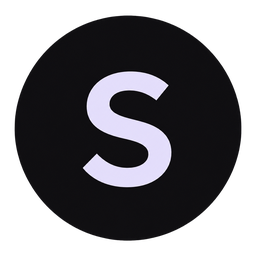
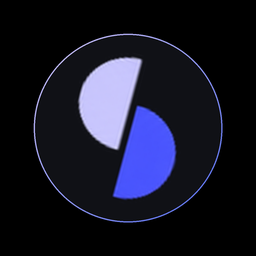
Apply final SILO identity

diff --git a/index.html b/index.html
@@ -1,5 +1,5 @@
 <!doctype html>
-<html lang="ko"><head><meta charset="UTF-8"><meta name="viewport" content="width=device-width,initial-scale=1"><title>SILO · Story workspace</title><link rel="stylesheet" href="style.css?v=20261101-silo2"></head>
+<html lang="ko"><head><meta charset="UTF-8"><meta name="viewport" content="width=device-width,initial-scale=1"><title>SILO · Story workspace</title><link rel="stylesheet" href="style.css?v=20261101-silo3"></head>
 <body><header><a class="brand" href="#"><strong>SILO</strong><small>CREATIVE WORKSPACE</small></a><div class="project"><span class="dot"></span><input id="projectTitle" maxlength="120" aria-label="프로젝트 제목"><select id="projectPicker" aria-label="저장된 프로젝트"></select></div><div class="top-actions"><span id="saved">자동 저장</span><button id="newProject">＋ 새 프로젝트</button><button id="deleteProject">프로젝트 삭제</button></div></header>
 <nav class="steps" role="tablist" aria-label="작업 공간"><button role="tab" aria-selected="true" data-tab="story">스토리</button><button role="tab" aria-selected="false" data-tab="assets">어셋</button><button role="tab" aria-selected="false" data-tab="shots">샷보드</button><button role="tab" aria-selected="false" data-tab="timeline">타임라인 <small>준비 중</small></button><div>SILO / WORKSPACE</div></nav>
 <div id="storyPage" class="page" role="tabpanel"><aside class="page-sidebar"><div class="eyebrow">STORY</div><h2>이야기의 시작</h2><button class="side-link active" data-story="overview">작품 오버뷰</button><button class="side-link" data-story="synopsis">시놉시스</button><button class="side-link" data-story="scenario">시나리오</button><button class="side-link" data-story="ideas">아이디어 노트</button><p class="sidebar-bottom">흩어진 생각을 모아<br>하나의 이야기로.</p></aside><section class="page-content"><div class="page-top"><div><div class="eyebrow">01 / STORY DEVELOPMENT</div><h1 id="storyHeading">작품 오버뷰</h1><p id="storySubtitle" class="subtitle">이 작품이 어떤 이야기인지, 가장 중요한 것부터.</p></div><span class="tag">STORY NOTES</span></div><div id="storyContent"></div></section><aside class="context-panel"><div class="eyebrow">PROJECT AT A GLANCE</div><h3>작품 노트</h3><p>이야기의 방향과 세계관을 정리하는 공간입니다.</p><div id="storyStats"></div><div class="context-note">스토리 → 어셋 → 샷보드<p>이야기를 정리하고, 필요한 어셋을 모은 뒤 컷으로 펼쳐보세요.</p></div></aside></div>
@@ -8,4 +8,4 @@
 <main><aside class="story"><div class="eyebrow">STORY FOUNDATION</div><h2>모든 컷의 시작,<br>하나의 이야기.</h2><label>시놉시스<textarea id="synopsis" placeholder="누가, 어디서, 무엇을 원하는지 적어보세요."></textarea></label><p class="hint">이야기를 씬으로 나누고, 각 씬의 순간을 컷으로 설계하세요.</p><button class="primary" id="build">시놉시스로 씬 구성 ↗</button><p class="notice">문단별로 씬을 나누는 초안 기능입니다.<br>AI 생성은 다음 단계에서 연결합니다.</p><div class="section-title"><span>SCENES</span><button id="addScene" aria-label="씬 추가">＋</button></div><div id="scenes"></div><div class="local-note"><span class="dot"></span> 프로젝트 작업실<small>프로젝트 폴더에 자동 저장됩니다.</small></div></aside>
 <section class="workspace"><div class="board-heading"><div class="eyebrow">STORYBOARD / TEXT FIRST</div><div class="title-row"><h1 id="sceneTitle"></h1><button class="primary" id="addCut">＋ 컷 추가</button></div><p id="sceneDesc"></p></div><div class="board-toolbar"><div><span class="green-dot"></span> <b id="cutCount"></b><span class="divider">/</span><span id="duration"></span></div><span>⠿ 컷을 드래그해 이야기의 순서를 바꾸세요</span></div><div id="board"></div><div class="board-footer">A LITTLE STRUCTURE. ENDLESS POSSIBILITIES.<span>SILO</span></div></section>
 <aside class="inspector"><div class="eyebrow">CUT DETAILS</div><div class="inspector-title"><h2 id="detailTitle">컷 편집</h2><span class="tag">EDITABLE</span></div><div id="editor"></div></aside></main><dialog id="newProjectDialog"><form id="newProjectForm"><div class="eyebrow">NEW PROJECT</div><h2>새로운 이야기 시작하기</h2><p class="hint">스토리, 어셋, 샷보드가 모두 빈 상태로 시작합니다.<br>현재 프로젝트는 프로젝트 폴더에 보관됩니다.</p><label>프로젝트 이름<input id="newProjectName" placeholder="새 프로젝트" maxlength="120" autocomplete="off"></label><div class="dialog-actions"><button type="button" id="cancelNewProject">취소</button><button type="submit" class="primary">프로젝트 만들기</button></div><p id="projectError" role="alert"></p></form></dialog><dialog id="deleteProjectDialog"><form id="deleteProjectForm"><div class="eyebrow">DELETE PROJECT</div><h2>프로젝트를 삭제할까요?</h2><p id="deleteProjectTitle"></p><p class="hint">프로젝트 목록에서 제거하고, 폴더를 프로젝트 휴지통으로 옮깁니다.</p><div class="dialog-actions"><button type="button" id="cancelDeleteProject">취소</button><button type="submit" class="primary">삭제하기</button></div><p id="deleteProjectError" role="alert"></p></form></dialog><div id="toast" role="status"></div><input id="file" type="file" accept="application/json" hidden><script src="nas-mode.js"></script>
-  <script src="web-runtime.js?v=20261101-silo2"></script><script src="project-look.js?v=20261101-silo2"></script><script src="app.js?v=20261101-silo2"></script><script src="workspace.js?v=20261101-silo2"></script><script src="notes.js?v=20261101-silo2"></script><script src="versions.js?v=20261101-silo2"></script><script src="shot-layout.js?v=20261101-silo2"></script><script src="media-prompts.js?v=20261101-silo2"></script><script src="generation-ui.js?v=20261101-silo2"></script><script src="generation-queue.js?v=20261101-silo2"></script><script src="mood.js?v=20261101-silo2"></script><script src="workspace-layout.js?v=20261101-silo2"></script><script src="card-system.js?v=20261101-silo2"></script><script src="studio-references.js?v=20261101-silo2"></script><script src="higgsfield.js?v=20261101-silo2"></script><script src="krea-moodboards.js?v=20261101-silo2"></script><script src="web-polish.js?v=20261101-silo2"></script><script src="shot-workspace.js?v=20261101-silo2"></script><script src="timeline.js?v=20261101-silo2"></script><script src="timeline-pro.js?v=20261101-silo2"></script><script src="timeline-edit-core.js?v=20261101-silo2"></script><script src="timeline-editing.js?v=20261101-silo2"></script><script src="timeline-library.js?v=20261101-silo2"></script><script src="timeline-insert.js?v=20261101-silo2"></script><script src="story-cover.js?v=20261101-silo2"></script><script src="projects.js?v=20261101-silo2"></script></body></html>
+  <script src="web-runtime.js?v=20261101-silo3"></script><script src="project-look.js?v=20261101-silo3"></script><script src="app.js?v=20261101-silo3"></script><script src="workspace.js?v=20261101-silo3"></script><script src="notes.js?v=20261101-silo3"></script><script src="versions.js?v=20261101-silo3"></script><script src="shot-layout.js?v=20261101-silo3"></script><script src="media-prompts.js?v=20261101-silo3"></script><script src="generation-ui.js?v=20261101-silo3"></script><script src="generation-queue.js?v=20261101-silo3"></script><script src="mood.js?v=20261101-silo3"></script><script src="workspace-layout.js?v=20261101-silo3"></script><script src="card-system.js?v=20261101-silo3"></script><script src="studio-references.js?v=20261101-silo3"></script><script src="higgsfield.js?v=20261101-silo3"></script><script src="krea-moodboards.js?v=20261101-silo3"></script><script src="web-polish.js?v=20261101-silo3"></script><script src="shot-workspace.js?v=20261101-silo3"></script><script src="timeline.js?v=20261101-silo3"></script><script src="timeline-pro.js?v=20261101-silo3"></script><script src="timeline-edit-core.js?v=20261101-silo3"></script><script src="timeline-editing.js?v=20261101-silo3"></script><script src="timeline-library.js?v=20261101-silo3"></script><script src="timeline-insert.js?v=20261101-silo3"></script><script src="story-cover.js?v=20261101-silo3"></script><script src="projects.js?v=20261101-silo3"></script></body></html>

diff --git a/workspace-layout.js b/workspace-layout.js
@@ -1,6 +1,6 @@
 // Full-page details and compact workspace navigation.
 let workspaceDetail=null,detailProjectId=null;
-const header=document.querySelector('header'),brand=document.querySelector('.brand'),navigation=document.querySelector('.steps');brand.innerHTML='<img src="silo-icon.png?v=20261101-silo1" alt="">';brand.setAttribute('aria-label','SILO');brand.title='SILO';header.insertBefore(navigation,document.querySelector('.project'));document.body.classList.add('compact-workspace');
+const header=document.querySelector('header'),brand=document.querySelector('.brand'),navigation=document.querySelector('.steps');brand.innerHTML='<img src="silo-icon.png?v=20261101-final" alt="">';brand.setAttribute('aria-label','SILO');brand.title='SILO';header.insertBefore(navigation,document.querySelector('.project'));document.body.classList.add('compact-workspace');
 const queueAnchor=document.createElement('div');queueAnchor.className='queue-anchor';$('#openGenerationQueue').before(queueAnchor);queueAnchor.append($('#openGenerationQueue'));queueAnchor.insertAdjacentHTML('beforeend','<div id="queueTopProgress" role="progressbar" aria-label="생성 진행 상황" hidden><span></span></div><span id="queueDoneBadge" class="queue-done-badge" hidden></span>');
 function detailEntity(kind){return kind==='mood'?moodItems().find(r=>r.id===moodId):kind==='asset'?state.assets.find(a=>a.id===assetId):current()?.cuts.find(c=>c.id===cutId);}
 function setDetail(kind){workspaceDetail=kind;detailProjectId=state.projectId;applyDetailScreen();if(kind==='shot')renderEditor();else renderAssets();window.scrollTo({top:0});}
